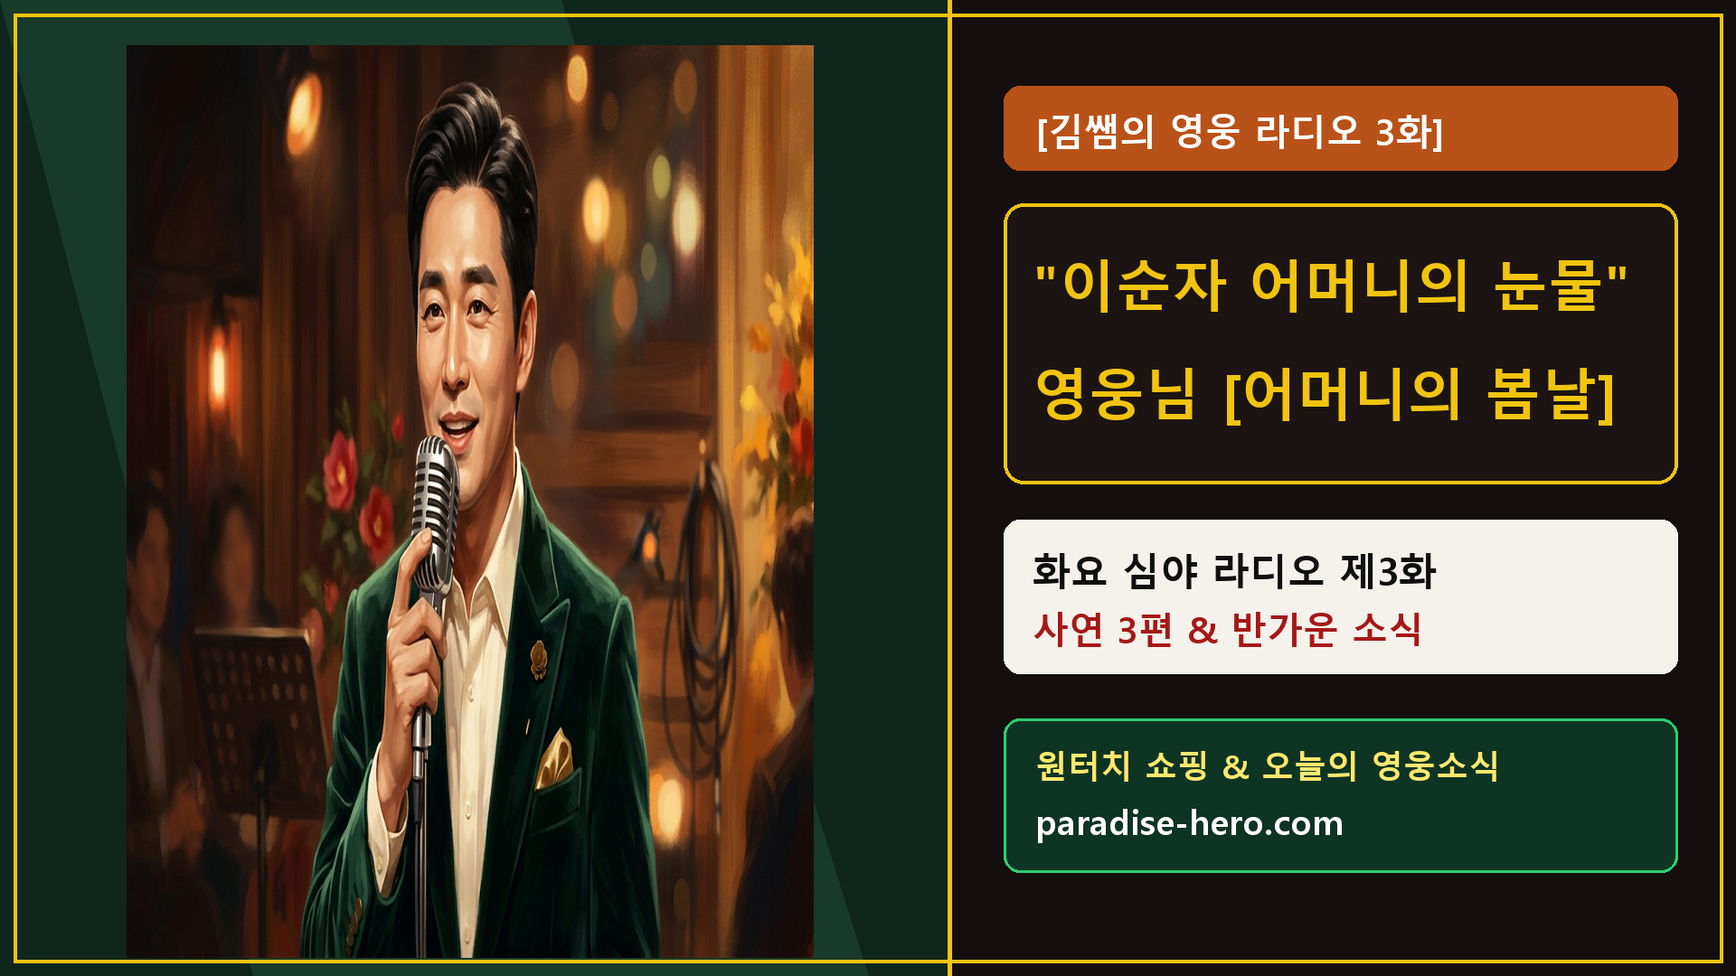
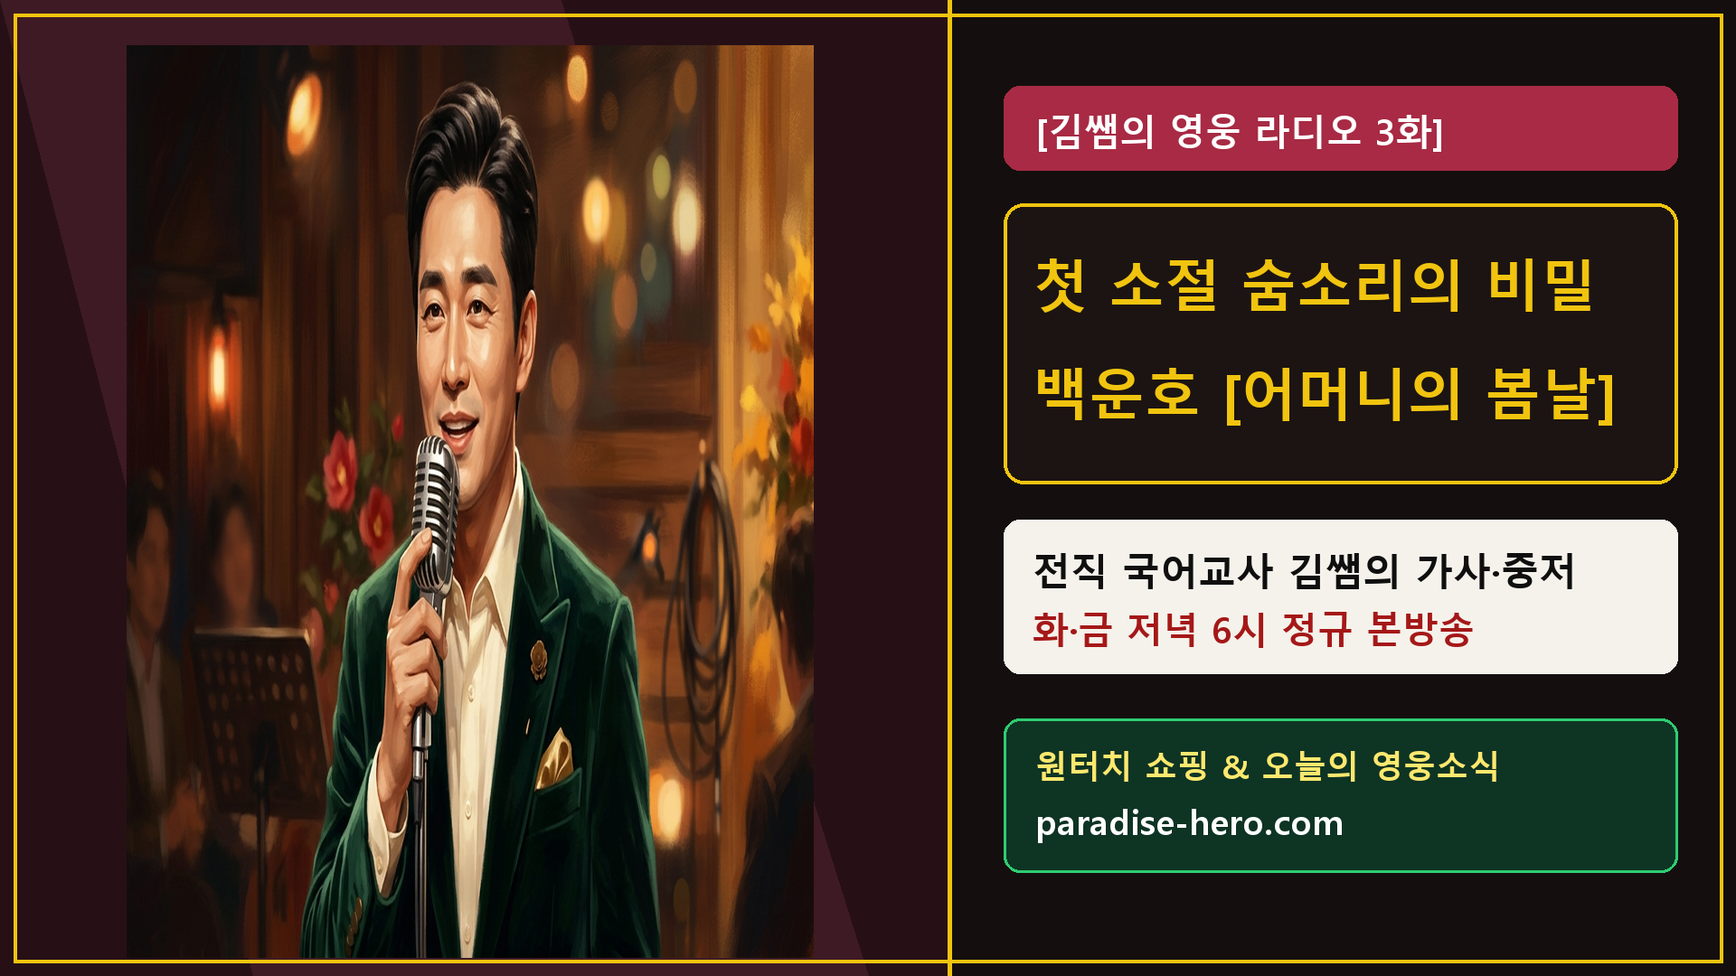
fix(seo): convert all sitemap.xml to Clean URLs (0 308/404), align 100% canonicals, purify forbidden terms

diff --git a/story/senior-radio-listening-guide-kitchen-bedside-livingroom.html b/story/senior-radio-listening-guide-kitchen-bedside-livingroom.html
@@ -5,11 +5,11 @@
   <meta name="viewport" content="width=device-width, initial-scale=1.0">
   <!-- AB_TITLE_SLOT_START --><title>주방 설거지·침대 머리맡·거실 청취용 — 어머님 일상 상황별 라디오 청취 준비물 가이드 | 김쌤의영웅라디오 · 백운호 사랑방</title><!-- AB_TITLE_SLOT_END -->
   <meta name="description" content="백운호 14분 연속 사연 라디오를 주방·침실·거실에서 눈과 목이 편안하게 즐기실 수 있도록 정리한 어머님 일상 상황별 맞춤 안내.">
-  <link rel="canonical" href="https://paradise-hero.com/story/senior-radio-listening-guide-kitchen-bedside-livingroom.html">
+  <link rel="canonical" href="https://paradise-hero.com/story/senior-radio-listening-guide-kitchen-bedside-livingroom">
   <meta property="og:type" content="article">
   <meta property="og:title" content="주방 설거지·침대 머리맡·거실 청취용 — 어머님 일상 상황별 라디오 청취 준비물 가이드">
   <meta property="og:description" content="백운호 14분 연속 사연 라디오를 주방·침실·거실에서 눈과 목이 편안하게 즐기실 수 있도록 정리한 어머님 일상 상황별 맞춤 안내.">
-  <meta property="og:url" content="https://paradise-hero.com/story/senior-radio-listening-guide-kitchen-bedside-livingroom.html">
+  <meta property="og:url" content="https://paradise-hero.com/story/senior-radio-listening-guide-kitchen-bedside-livingroom">
   <script type="application/ld+json">{"@context": "https://schema.org", "@type": "Article", "headline": "주방 설거지·침대 머리맡·거실 청취용 — 어머님 일상 상황별 라디오 청취 준비물 가이드", "description": "백운호 14분 연속 사연 라디오를 주방·침실·거실에서 눈과 목이 편안하게 즐기실 수 있도록 정리한 어머님 일상 상황별 맞춤 안내.", "datePublished": "2026-11-23", "dateModified": "2026-11-23", "mainEntityOfPage": "https://paradise-hero.com/story/senior-radio-listening-guide-kitchen-bedside-livingroom.html", "publisher": {"@type": "Organization", "name": "김쌤의영웅라디오 · 백운호 사랑방"}}</script>
   <script type="application/ld+json">{"@context": "https://schema.org", "@type": "FAQPage", "mainEntity": [{"@type": "Question", "name": "사랑방 이용 시 물건을 꼭 사야 하나요?", "acceptedAnswer": {"@type": "Answer", "text": "전혀 아닙니다. 노래 듣기, 연속 사연 라디오, 카톡 안부카드는 평생 100% 무료이며 필요하신 분만 천천히 둘러보시면 됩니다."}}, {"@type": "Question", "name": "제휴 수수료 안내가 있나요?", "acceptedAnswer": {"@type": "Answer", "text": "네, 투명하게 안내드리며 네이버 쇼핑커넥트 및 쿠팡 파트너스 활동의 일환으로 판매 발생 시 일정액의 수수료를 제공받습니다."}}]}</script>
   <style>

diff --git a/story/baek-woonho-free-radio-guide-2026.html b/story/baek-woonho-free-radio-guide-2026.html
@@ -5,11 +5,11 @@
   <meta name="viewport" content="width=device-width, initial-scale=1.0">
   <!-- AB_TITLE_SLOT_START --><title>회원가입 없이 큰글씨로 매일 듣는 백운호 6곡 완곡 무료 라디오 이용 안내 | 김쌤의영웅라디오 · 백운호 사랑방</title><!-- AB_TITLE_SLOT_END -->
   <meta name="description" content="마음을 노래하는 AI 가상 트로트 가수 백운호의 6곡 완곡과 화·금 저녁 6시 연속 인생 사연 라디오를 회원가입 없이 26px 큰글씨로 무료 청취하는 방법.">
-  <link rel="canonical" href="https://paradise-hero.com/story/baek-woonho-free-radio-guide-2026.html">
+  <link rel="canonical" href="https://paradise-hero.com/story/baek-woonho-free-radio-guide-2026">
   <meta property="og:type" content="article">
   <meta property="og:title" content="회원가입 없이 큰글씨로 매일 듣는 백운호 6곡 완곡 무료 라디오 이용 안내">
   <meta property="og:description" content="마음을 노래하는 AI 가상 트로트 가수 백운호의 6곡 완곡과 화·금 저녁 6시 연속 인생 사연 라디오를 회원가입 없이 26px 큰글씨로 무료 청취하는 방법.">
-  <meta property="og:url" content="https://paradise-hero.com/story/baek-woonho-free-radio-guide-2026.html">
+  <meta property="og:url" content="https://paradise-hero.com/story/baek-woonho-free-radio-guide-2026">
   <script type="application/ld+json">{"@context": "https://schema.org", "@type": "Article", "headline": "회원가입 없이 큰글씨로 매일 듣는 백운호 6곡 완곡 무료 라디오 이용 안내", "description": "마음을 노래하는 AI 가상 트로트 가수 백운호의 6곡 완곡과 화·금 저녁 6시 연속 인생 사연 라디오를 회원가입 없이 26px 큰글씨로 무료 청취하는 방법.", "datePublished": "2026-11-23", "dateModified": "2026-11-23", "mainEntityOfPage": "https://paradise-hero.com/story/baek-woonho-free-radio-guide-2026.html", "publisher": {"@type": "Organization", "name": "김쌤의영웅라디오 · 백운호 사랑방"}}</script>
   <script type="application/ld+json">{"@context": "https://schema.org", "@type": "FAQPage", "mainEntity": [{"@type": "Question", "name": "정말 끝까지 무료로 들을 수 있나요?", "acceptedAnswer": {"@type": "Answer", "text": "네, 백운호 라디오와 카톡 아침 안부카드는 평생 100% 무료이며 비용 부담 없이 마음 편히 들으실 수 있습니다."}}, {"@type": "Question", "name": "가수 백운호는 어떤 가수인가요?", "acceptedAnswer": {"@type": "Answer", "text": "어머님·아버님들의 마음을 위로하기 위해 탄생한 오리지널 AI 가상(버추얼) 트로트 가수입니다."}}]}</script>
   <style>

diff --git a/story/baek-woonho-morning-greeting-card-guide.html b/story/baek-woonho-morning-greeting-card-guide.html
@@ -5,11 +5,11 @@
   <meta name="viewport" content="width=device-width, initial-scale=1.0">
   <!-- AB_TITLE_SLOT_START --><title>내일 아침 단톡방에 3초 만에 보내는 백운호 꽃그림 무료 카톡 안부카드 만들기 | 김쌤의영웅라디오 · 백운호 사랑방</title><!-- AB_TITLE_SLOT_END -->
   <meta name="description" content="복잡한 앱 설치 없이 3초 만에 이름과 따뜻한 인사말을 넣어 카카오톡 단톡방에 보내는 백운호 꽃그림 아침 안부카드 무료 사용법.">
-  <link rel="canonical" href="https://paradise-hero.com/story/baek-woonho-morning-greeting-card-guide.html">
+  <link rel="canonical" href="https://paradise-hero.com/story/baek-woonho-morning-greeting-card-guide">
   <meta property="og:type" content="article">
   <meta property="og:title" content="내일 아침 단톡방에 3초 만에 보내는 백운호 꽃그림 무료 카톡 안부카드 만들기">
   <meta property="og:description" content="복잡한 앱 설치 없이 3초 만에 이름과 따뜻한 인사말을 넣어 카카오톡 단톡방에 보내는 백운호 꽃그림 아침 안부카드 무료 사용법.">
-  <meta property="og:url" content="https://paradise-hero.com/story/baek-woonho-morning-greeting-card-guide.html">
+  <meta property="og:url" content="https://paradise-hero.com/story/baek-woonho-morning-greeting-card-guide">
   <script type="application/ld+json">{"@context": "https://schema.org", "@type": "Article", "headline": "내일 아침 단톡방에 3초 만에 보내는 백운호 꽃그림 무료 카톡 안부카드 만들기", "description": "복잡한 앱 설치 없이 3초 만에 이름과 따뜻한 인사말을 넣어 카카오톡 단톡방에 보내는 백운호 꽃그림 아침 안부카드 무료 사용법.", "datePublished": "2026-11-23", "dateModified": "2026-11-23", "mainEntityOfPage": "https://paradise-hero.com/story/baek-woonho-morning-greeting-card-guide.html", "publisher": {"@type": "Organization", "name": "김쌤의영웅라디오 · 백운호 사랑방"}}</script>
   <script type="application/ld+json">{"@context": "https://schema.org", "@type": "FAQPage", "mainEntity": [{"@type": "Question", "name": "카드를 여러 장 만들어도 무료인가요?", "acceptedAnswer": {"@type": "Answer", "text": "네, 매일 아침 몇 장을 만드시든 회원가입 없이 평생 무료입니다."}}, {"@type": "Question", "name": "글씨가 작아서 잘 안 보이지는 않나요?", "acceptedAnswer": {"@type": "Answer", "text": "시니어 어머님·아버님 눈높이에 맞춰 큰글씨와 고화질(1080×1350) 그림으로 자동 완성됩니다."}}]}</script>
   <style>

diff --git a/stream.html b/stream.html
@@ -6,14 +6,14 @@
   <title>가상 트로트 가수 백운호 6대 대표곡 연속 듣기 · 어머니의 봄날 | @김쌤의영웅라디오</title>
   <meta name="description" content="오리지널 가상 트로트 가수 백운호의 타이틀곡 〈어머니의 봄날〉, 〈백운호 연가〉, 〈항구의 등불〉, 〈다시 피는 동백꽃〉, 〈고향역 첫차〉, 〈내 인생의 금빛 노을〉 감상관입니다.">
   <meta name="robots" content="index, follow">
-  <link rel="canonical" href="https://paradise-hero.com/stream.html">
+  <link rel="canonical" href="https://paradise-hero.com/stream">
   <link rel="alternate" type="application/rss+xml" title="김쌤의영웅라디오 &amp; 백운호 사랑방 소식 RSS" href="https://paradise-hero.com/rss.xml">
 
   <meta property="og:type" content="website">
   <meta property="og:site_name" content="유튜브 @김쌤의영웅라디오 가족 사랑방 · 가상 트로트 가수 백운호 라운지">
   <meta property="og:title" content="가상 트로트 가수 백운호 6대 대표곡 연속 듣기 · 어머니의 봄날 | @김쌤의영웅라디오">
   <meta property="og:description" content="오리지널 가상 트로트 가수 백운호의 타이틀곡 〈어머니의 봄날〉, 〈백운호 연가〉, 〈항구의 등불〉, 〈다시 피는 동백꽃〉, 〈고향역 첫차〉, 〈내 인생의 금빛 노을〉 감상관입니다.">
-  <meta property="og:url" content="https://paradise-hero.com/stream.html">
+  <meta property="og:url" content="https://paradise-hero.com/stream">
   <meta property="og:image" content="https://paradise-hero.com/assets/og_booth_share.jpg">
   <meta property="og:locale" content="ko_KR">
 

diff --git a/news.html b/news.html
@@ -6,14 +6,14 @@
   <title>📻 @김쌤의영웅라디오 화·금 정규 방송 편성표 & 가상 트로트 가수 백운호 신곡·사연 소식란</title>
   <meta name="description" content="매주 화요일·금요일 저녁 6시 유튜브 @김쌤의영웅라디오 정규 방송 편성표와 오리지널 가상 트로트 가수 백운호의 대표곡·청취 건강 안내입니다.">
   <meta name="robots" content="index, follow">
-  <link rel="canonical" href="https://paradise-hero.com/news.html">
+  <link rel="canonical" href="https://paradise-hero.com/news">
   <link rel="alternate" type="application/rss+xml" title="김쌤의영웅라디오 &amp; 백운호 사랑방 소식 RSS" href="https://paradise-hero.com/rss.xml">
 
   <meta property="og:type" content="website">
   <meta property="og:site_name" content="유튜브 @김쌤의영웅라디오 가족 사랑방 · 가상 트로트 가수 백운호 라운지">
   <meta property="og:title" content="📻 @김쌤의영웅라디오 화·금 정규 방송 편성표 & 가상 트로트 가수 백운호 신곡·사연 소식란">
   <meta property="og:description" content="매주 화요일·금요일 저녁 6시 유튜브 @김쌤의영웅라디오 정규 방송 편성표와 오리지널 가상 트로트 가수 백운호의 대표곡·청취 건강 안내입니다.">
-  <meta property="og:url" content="https://paradise-hero.com/news.html">
+  <meta property="og:url" content="https://paradise-hero.com/news">
   <meta property="og:image" content="https://paradise-hero.com/assets/og_booth_share.jpg">
   <meta property="og:locale" content="ko_KR">
 

diff --git a/photobooth.html b/photobooth.html
@@ -6,14 +6,14 @@
   <title>가상 트로트 가수 백운호 6대 무대 의상 무료 기념촬영관 | @김쌤의영웅라디오</title>
   <meta name="description" content="회원가입 없이 무료! 오리지널 가상 트로트 가수 백운호의 6대 무대 의상(에메랄드 정장~전통 한복·라디오 DJ룩)과 함께 기념사진을 찍어보세요.">
   <meta name="robots" content="index, follow">
-  <link rel="canonical" href="https://paradise-hero.com/photobooth.html">
+  <link rel="canonical" href="https://paradise-hero.com/photobooth">
   <link rel="alternate" type="application/rss+xml" title="김쌤의영웅라디오 &amp; 백운호 사랑방 소식 RSS" href="https://paradise-hero.com/rss.xml">
 
   <meta property="og:type" content="website">
   <meta property="og:site_name" content="유튜브 @김쌤의영웅라디오 가족 사랑방 · 가상 트로트 가수 백운호 라운지">
   <meta property="og:title" content="가상 트로트 가수 백운호 6대 무대 의상 무료 기념촬영관 | @김쌤의영웅라디오">
   <meta property="og:description" content="회원가입 없이 무료! 오리지널 가상 트로트 가수 백운호의 6대 무대 의상(에메랄드 정장~전통 한복·라디오 DJ룩)과 함께 기념사진을 찍어보세요.">
-  <meta property="og:url" content="https://paradise-hero.com/photobooth.html">
+  <meta property="og:url" content="https://paradise-hero.com/photobooth">
   <meta property="og:image" content="https://paradise-hero.com/assets/og_booth_share.jpg">
   <meta property="og:locale" content="ko_KR">
 

diff --git a/vip.html b/vip.html
@@ -6,14 +6,14 @@
   <title>🎁 백운호 카톡 안부카드 · 큰글씨 달력 무료 선물관 | @김쌤의영웅라디오</title>
   <meta name="description" content="회원가입·결제 없이 100% 무료! 가상 트로트 가수 백운호 카톡 아침 안부카드, 큰글씨 달력 배경화면, 왕글씨 가사집 등 10종 디지털 선물을 만들어 보세요.">
   <meta name="robots" content="index, follow">
-  <link rel="canonical" href="https://paradise-hero.com/vip.html">
+  <link rel="canonical" href="https://paradise-hero.com/vip">
   <link rel="alternate" type="application/rss+xml" title="김쌤의영웅라디오 &amp; 백운호 사랑방 소식 RSS" href="https://paradise-hero.com/rss.xml">
 
   <meta property="og:type" content="website">
   <meta property="og:site_name" content="유튜브 @김쌤의영웅라디오 가족 사랑방 · 가상 트로트 가수 백운호 라운지">
   <meta property="og:title" content="🎁 백운호 카톡 안부카드 · 큰글씨 달력 무료 선물관 | @김쌤의영웅라디오">
   <meta property="og:description" content="회원가입·결제 없이 100% 무료! 가상 트로트 가수 백운호 카톡 아침 안부카드, 큰글씨 달력 배경화면, 왕글씨 가사집 등 10종 디지털 선물을 만들어 보세요.">
-  <meta property="og:url" content="https://paradise-hero.com/vip.html">
+  <meta property="og:url" content="https://paradise-hero.com/vip">
   <meta property="og:image" content="https://paradise-hero.com/assets/og_vip_gift.jpg">
   <meta property="og:locale" content="ko_KR">
 

diff --git a/booth.html b/booth.html
@@ -6,14 +6,14 @@
   <title>가상 트로트 가수 백운호 6대 무대 의상 무료 기념촬영관 | @김쌤의영웅라디오</title>
   <meta name="description" content="회원가입 없이 무료! 오리지널 가상 트로트 가수 백운호의 6대 무대 의상(에메랄드 정장~전통 한복·라디오 DJ룩)과 함께 기념사진을 찍어보세요.">
   <meta name="robots" content="index, follow">
-  <link rel="canonical" href="https://paradise-hero.com/booth.html">
+  <link rel="canonical" href="https://paradise-hero.com/booth">
   <link rel="alternate" type="application/rss+xml" title="김쌤의영웅라디오 &amp; 백운호 사랑방 소식 RSS" href="https://paradise-hero.com/rss.xml">
 
   <meta property="og:type" content="website">
   <meta property="og:site_name" content="유튜브 @김쌤의영웅라디오 가족 사랑방 · 가상 트로트 가수 백운호 라운지">
   <meta property="og:title" content="가상 트로트 가수 백운호 6대 무대 의상 무료 기념촬영관 | @김쌤의영웅라디오">
   <meta property="og:description" content="회원가입 없이 무료! 오리지널 가상 트로트 가수 백운호의 6대 무대 의상(에메랄드 정장~전통 한복·라디오 DJ룩)과 함께 기념사진을 찍어보세요.">
-  <meta property="og:url" content="https://paradise-hero.com/booth.html">
+  <meta property="og:url" content="https://paradise-hero.com/booth">
   <meta property="og:image" content="https://paradise-hero.com/assets/og_booth_share.jpg">
   <meta property="og:locale" content="ko_KR">
 

diff --git a/radio.html b/radio.html
@@ -6,14 +6,14 @@
   <title>유튜브 @김쌤의영웅라디오 1~5화 연속 다시듣기 | 백운호 사연 라디오</title>
   <meta name="description" content="어머님·아버님들의 진솔한 인생 사연과 가상 트로트 가수 백운호의 중저음 노래를 1화부터 5화까지 편안하게 연속 감상하세요.">
   <meta name="robots" content="index, follow">
-  <link rel="canonical" href="https://paradise-hero.com/radio.html">
+  <link rel="canonical" href="https://paradise-hero.com/radio">
   <link rel="alternate" type="application/rss+xml" title="김쌤의영웅라디오 &amp; 백운호 사랑방 소식 RSS" href="https://paradise-hero.com/rss.xml">
 
   <meta property="og:type" content="website">
   <meta property="og:site_name" content="유튜브 @김쌤의영웅라디오 가족 사랑방 · 가상 트로트 가수 백운호 라운지">
   <meta property="og:title" content="유튜브 @김쌤의영웅라디오 1~5화 연속 다시듣기 | 백운호 사연 라디오">
   <meta property="og:description" content="어머님·아버님들의 진솔한 인생 사연과 가상 트로트 가수 백운호의 중저음 노래를 1화부터 5화까지 편안하게 연속 감상하세요.">
-  <meta property="og:url" content="https://paradise-hero.com/radio.html">
+  <meta property="og:url" content="https://paradise-hero.com/radio">
   <meta property="og:image" content="https://paradise-hero.com/assets/og_booth_share.jpg">
   <meta property="og:locale" content="ko_KR">
 

diff --git a/story.html b/story.html
@@ -6,14 +6,14 @@
   <title>라디오 사연 보내기 · 백운호 신청곡 우체통 | @김쌤의영웅라디오</title>
   <meta name="description" content="매주 화·금 저녁 6시 유튜브 @김쌤의영웅라디오 본방송에서 읽어드리는 인생 사연 & 백운호 신청곡 접수 창구입니다.">
   <meta name="robots" content="index, follow">
-  <link rel="canonical" href="https://paradise-hero.com/story.html">
+  <link rel="canonical" href="https://paradise-hero.com/story">
   <link rel="alternate" type="application/rss+xml" title="김쌤의영웅라디오 &amp; 백운호 사랑방 소식 RSS" href="https://paradise-hero.com/rss.xml">
 
   <meta property="og:type" content="website">
   <meta property="og:site_name" content="유튜브 @김쌤의영웅라디오 가족 사랑방 · 가상 트로트 가수 백운호 라운지">
   <meta property="og:title" content="라디오 사연 보내기 · 백운호 신청곡 우체통 | @김쌤의영웅라디오">
   <meta property="og:description" content="매주 화·금 저녁 6시 유튜브 @김쌤의영웅라디오 본방송에서 읽어드리는 인생 사연 & 백운호 신청곡 접수 창구입니다.">
-  <meta property="og:url" content="https://paradise-hero.com/story.html">
+  <meta property="og:url" content="https://paradise-hero.com/story">
   <meta property="og:image" content="https://paradise-hero.com/assets/og_booth_share.jpg">
   <meta property="og:locale" content="ko_KR">
 

diff --git a/community.html b/community.html
@@ -6,14 +6,14 @@
   <title>전국 가족 소통 사랑방 · 실시간 공감 박수 담벼락 | @김쌤의영웅라디오</title>
   <meta name="description" content="김쌤의영웅라디오 청취자 가족들이 1줄 안부와 실시간 공감 박수를 나누는 따뜻한 소통 사랑방입니다.">
   <meta name="robots" content="index, follow">
-  <link rel="canonical" href="https://paradise-hero.com/community.html">
+  <link rel="canonical" href="https://paradise-hero.com/community">
   <link rel="alternate" type="application/rss+xml" title="김쌤의영웅라디오 &amp; 백운호 사랑방 소식 RSS" href="https://paradise-hero.com/rss.xml">
 
   <meta property="og:type" content="website">
   <meta property="og:site_name" content="유튜브 @김쌤의영웅라디오 가족 사랑방 · 가상 트로트 가수 백운호 라운지">
   <meta property="og:title" content="전국 가족 소통 사랑방 · 실시간 공감 박수 담벼락 | @김쌤의영웅라디오">
   <meta property="og:description" content="김쌤의영웅라디오 청취자 가족들이 1줄 안부와 실시간 공감 박수를 나누는 따뜻한 소통 사랑방입니다.">
-  <meta property="og:url" content="https://paradise-hero.com/community.html">
+  <meta property="og:url" content="https://paradise-hero.com/community">
   <meta property="og:image" content="https://paradise-hero.com/assets/og_booth_share.jpg">
   <meta property="og:locale" content="ko_KR">
 

diff --git a/js/hero-family-lounge.js b/js/hero-family-lounge.js
@@ -509,7 +509,7 @@
     }
     var rand4 = Math.random().toString(36).replace(/[^a-z0-9]/g, '').slice(0, 4);
     while (rand4.length < 4) { rand4 += 'a'; }
-    return 'beable9489+story-' + Date.now() + '-' + rand4 + '@gmail.com';
+    return 'story-anon-' + Date.now() + '-' + rand4 + '@paradise-hero.com';
   }
 
   // -------------------------------------------------------------------------
@@ -840,7 +840,7 @@
     if (!record || !record.email) return null;
 
     var cleanEmail = String(record.email || '').trim().toLowerCase();
-    if (/^beable9489\+story-/i.test(cleanEmail)) return null;
+    if (/^story-anon-/i.test(cleanEmail)) return null;
     var cleanNick = String(record.nickname || '').trim();
     var displayNick = cleanNick || '사랑방 가족';
 
@@ -1058,7 +1058,7 @@
 
     function postCheerToBroadcastServer(rawAuthor, rawMessage, rawEmail, nowKst) {
       var cleanEmail = String(rawEmail || '').trim().toLowerCase();
-      var hasRealEmail = isValidSeniorEmail(cleanEmail) && !/^beable9489\+story-/i.test(cleanEmail);
+      var hasRealEmail = isValidSeniorEmail(cleanEmail) && !/^story-anon-/i.test(cleanEmail);
       var resolvedEmail = hasRealEmail ? cleanEmail : generateStoryPlusAliasEmail();
       var cleanAuthor = String(rawAuthor || '').replace(/\s+/g, ' ').trim();
       var resolvedNickname = cleanAuthor || '익명 사랑방 가족';
